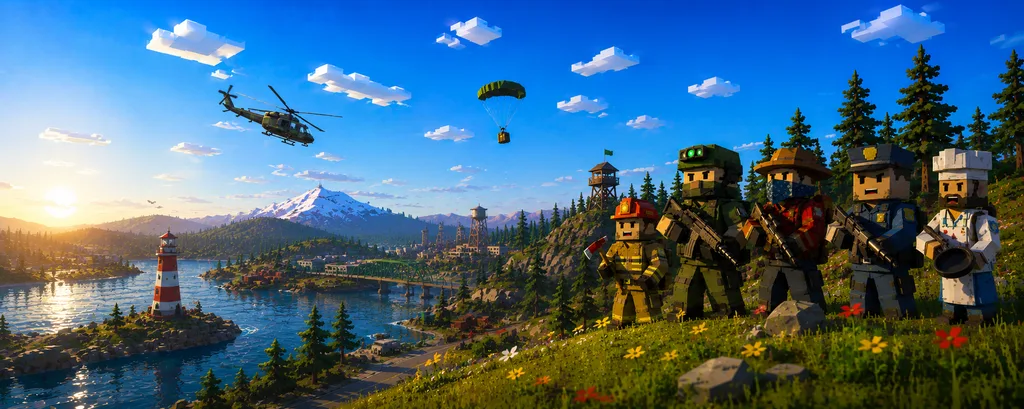
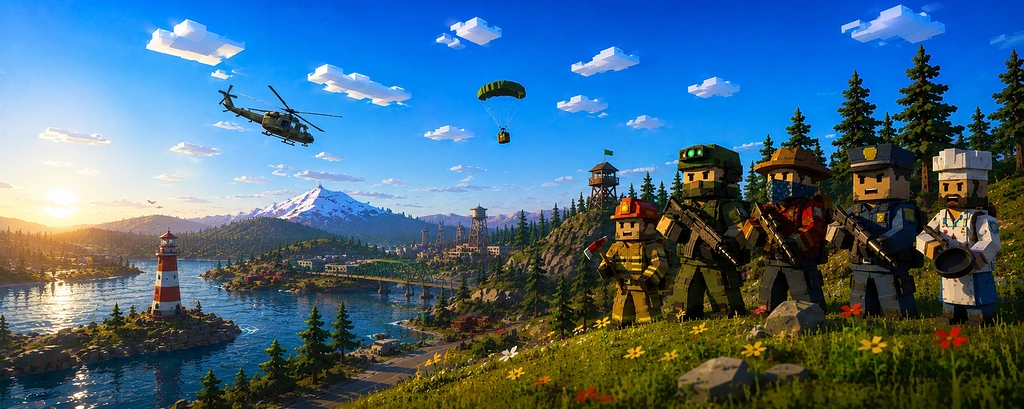
Upgrade hero to HD/4K WebP ladder with sharpening
- Regenerate hero variants at 640–3840w with Lanczos3 + sharpen
- Raise WebP quality to 94–96 and default LCP to 1920w
- Extend srcset for retina and ultra-wide displays
- Match hero aspect ratio to native 2.5:1 art for less crop blur
- Lighten overlay veil so the background reads clearer

diff --git a/src/lib/responsive-images.ts b/src/lib/responsive-images.ts
@@ -24,6 +24,9 @@ export function contentSrcSet(baseSrc: string): string | undefined {
 		name.endsWith('-1400w') ||
 		name.endsWith('-1024w') ||
 		name.endsWith('-1536w') ||
+		name.endsWith('-1920w') ||
+		name.endsWith('-2560w') ||
+		name.endsWith('-3840w') ||
 		name.endsWith('-480w')
 	) {
 		return undefined;
@@ -38,28 +41,32 @@ export function contentSrcSet(baseSrc: string): string | undefined {
 }
 
 /**
- * Homepage / banner hero — compressed WebP ladder (not the 375KB+ PNG master).
- * Native art ~1024×409 (~2.5:1).
+ * Homepage / banner hero — HD WebP ladder up to 4K for retina and ultra-wide screens.
+ * Native art ~1983×793 (~2.5:1).
  */
 export const heroResponsive: ResponsiveWidth[] = [
 	{ src: '/images/unturned-hacks-hero-640w.webp', width: 640 },
 	{ src: '/images/unturned-hacks-hero-1024w.webp', width: 1024 },
+	{ src: '/images/unturned-hacks-hero-1536w.webp', width: 1536 },
+	{ src: '/images/unturned-hacks-hero-1920w.webp', width: 1920 },
+	{ src: '/images/unturned-hacks-hero-2560w.webp', width: 2560 },
+	{ src: '/images/unturned-hacks-hero-3840w.webp', width: 3840 },
 ];
 
 export const heroDesktopResponsive: ResponsiveWidth[] = heroResponsive;
 
-/** Default LCP src — mid ladder WebP (~56KB). */
-export const heroSrc = '/images/unturned-hacks-hero-1024w.webp';
+/** Default LCP src — 1920w HD WebP for sharp display on most desktops. */
+export const heroSrc = '/images/unturned-hacks-hero-1920w.webp';
 export const heroSrcSet = buildSrcSet(heroResponsive);
 export const heroSizes = '100vw';
 
-/** LCP preload — same compressed WebP. */
-export const heroPreloadSrc = heroSrc;
+/** Preload the HD variant browsers pick on desktop. */
+export const heroPreloadSrc = '/images/unturned-hacks-hero-1920w.webp';
 export const heroMimeType = 'image/webp';
 
-/** Exact native dimensions (no zoom crop). */
-export const heroWidth = 1024;
-export const heroHeight = 409;
+/** Native dimensions for layout / aspect ratio (1983×793 master). */
+export const heroWidth = 1983;
+export const heroHeight = 793;
 
 /** Responsive widths for below-fold content images. */
 export const contentWidths = [480, 960] as const;

diff --git a/src/data/brand.ts b/src/data/brand.ts
@@ -25,8 +25,8 @@ export const brand = {
 	logoRasterWidth: 512,
 	logoRasterHeight: 512,
 	logoAlt: 'Unturned Hacks logo',
-	defaultOgImage: '/images/unturned-hacks-hero-1024w.webp',
-	heroImage: '/images/unturned-hacks-hero-1024w.webp',
+	defaultOgImage: '/images/unturned-hacks-hero-1920w.webp',
+	heroImage: '/images/unturned-hacks-hero-1920w.webp',
 
 	plans: [
 		{ id: 'monthly', label: 'Monthly', price: 35, duration: 'P30D' },
